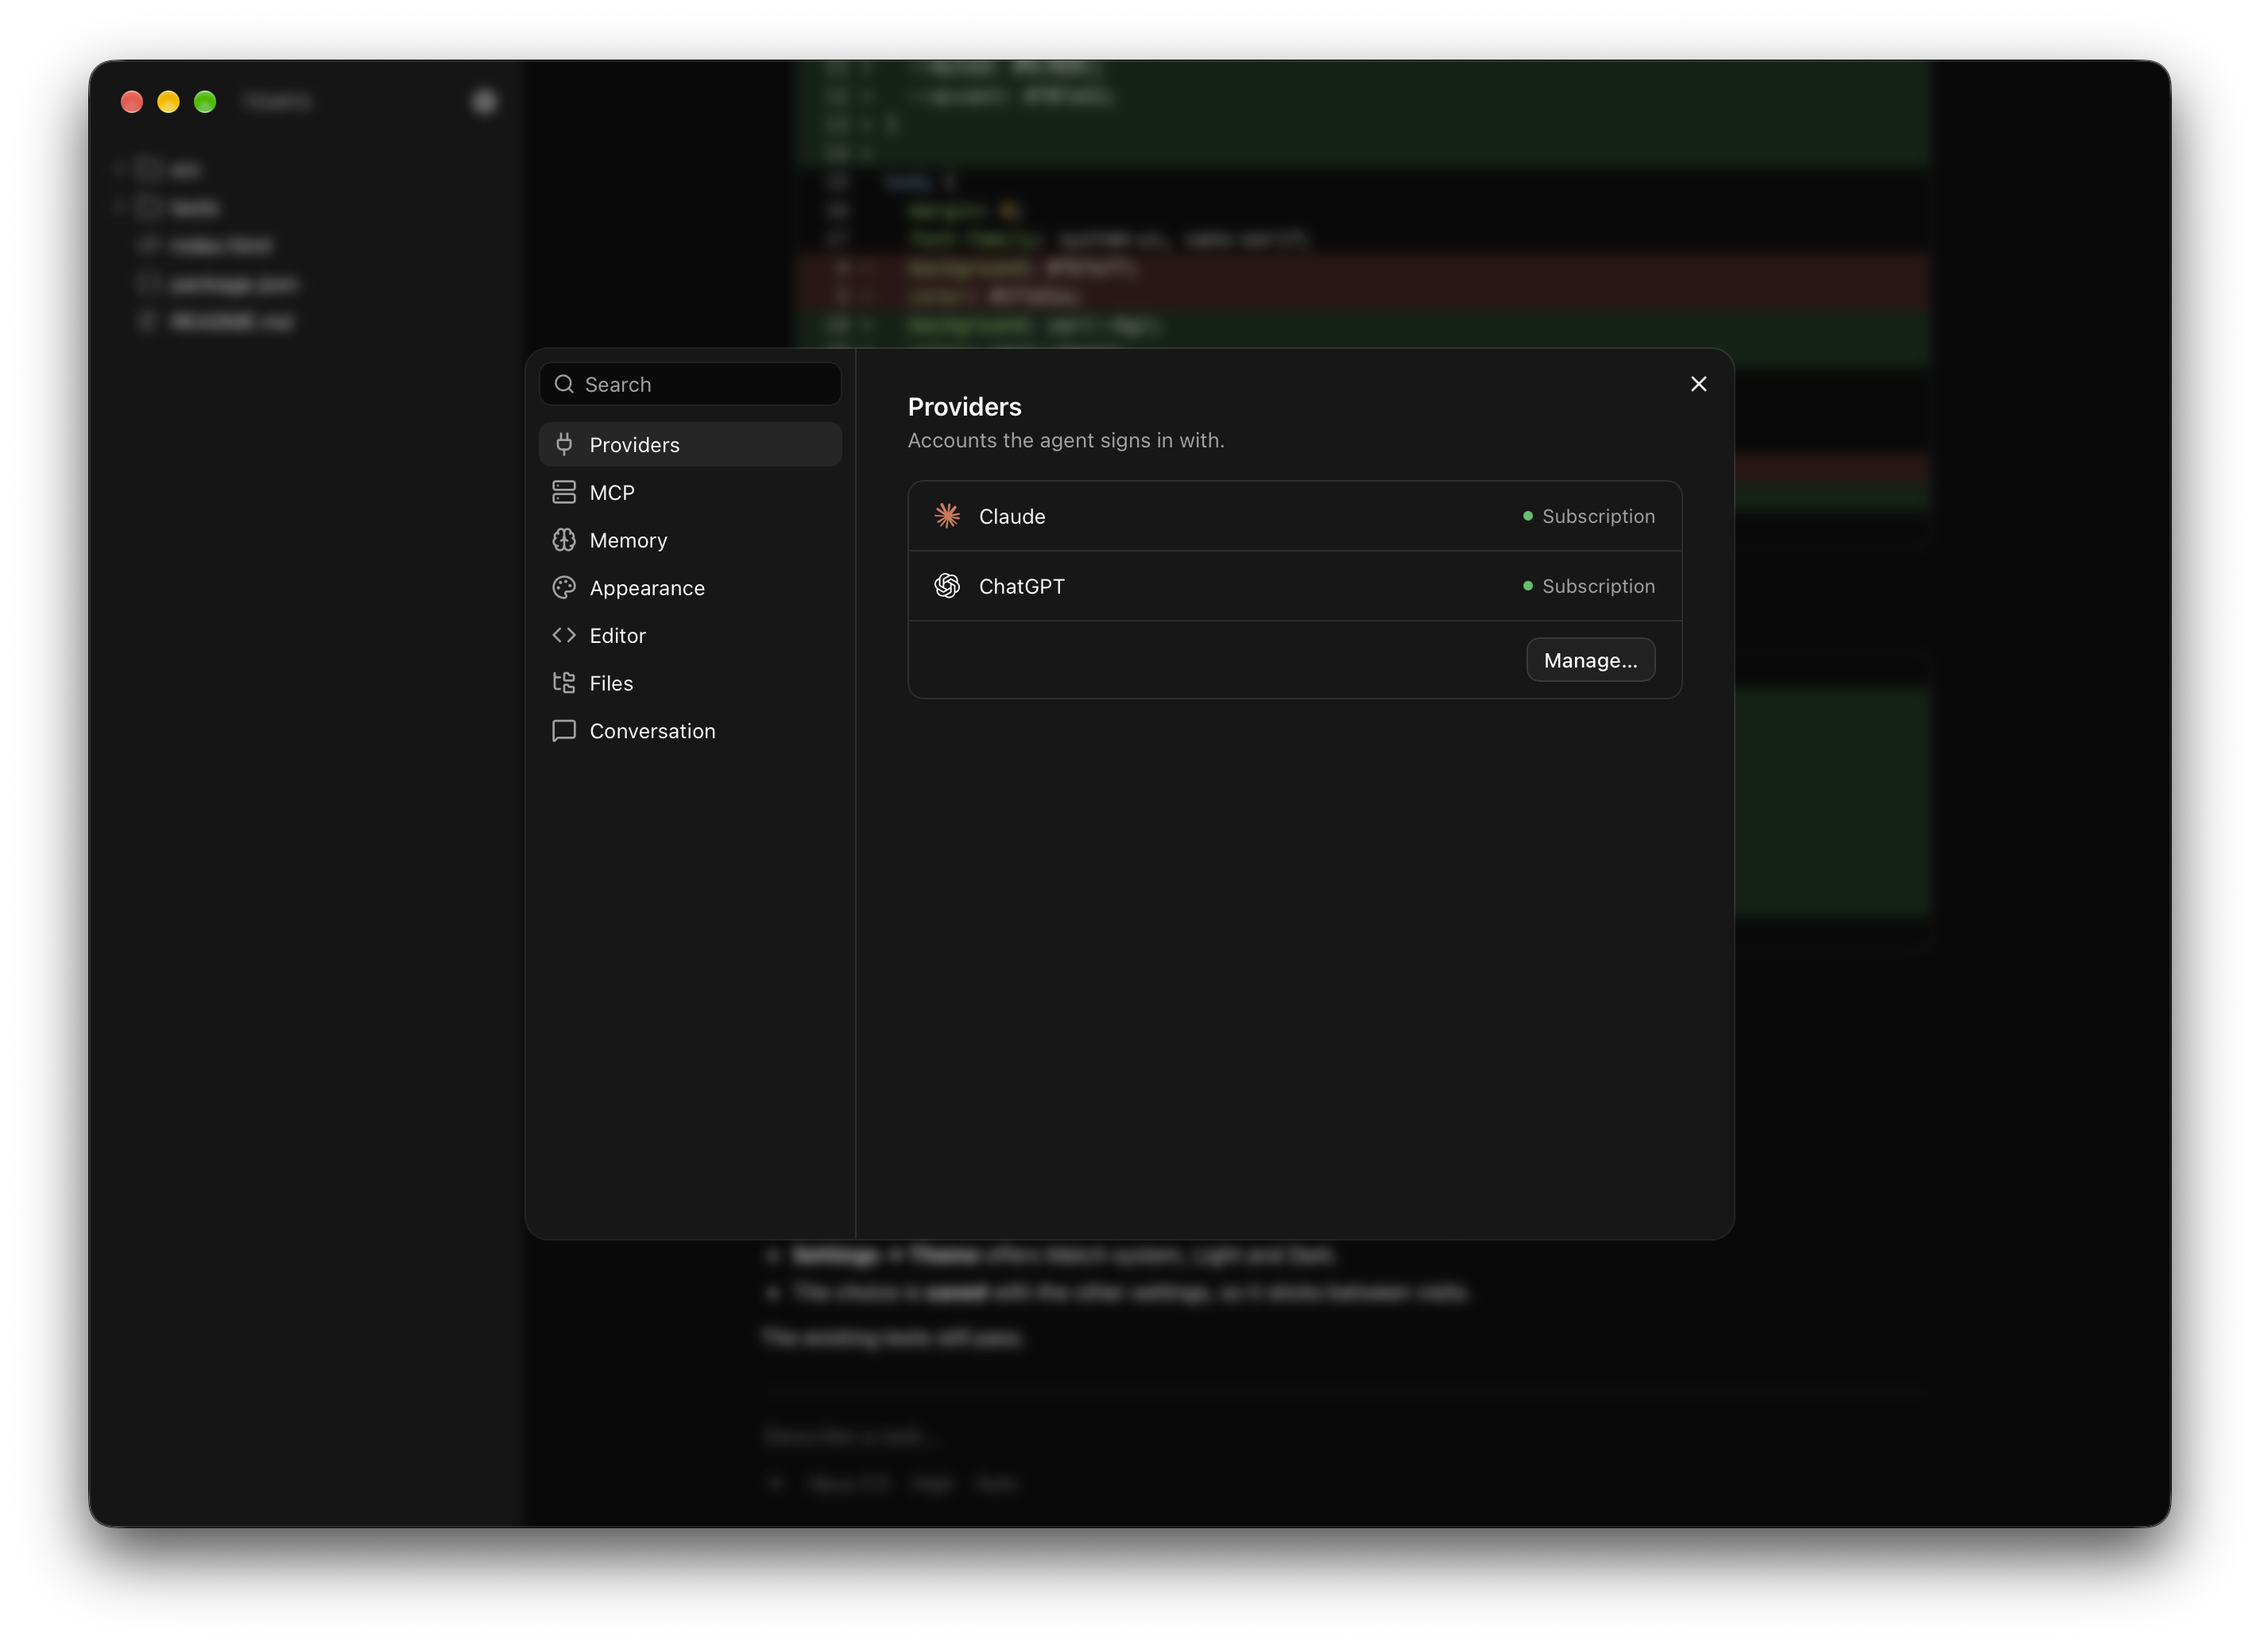
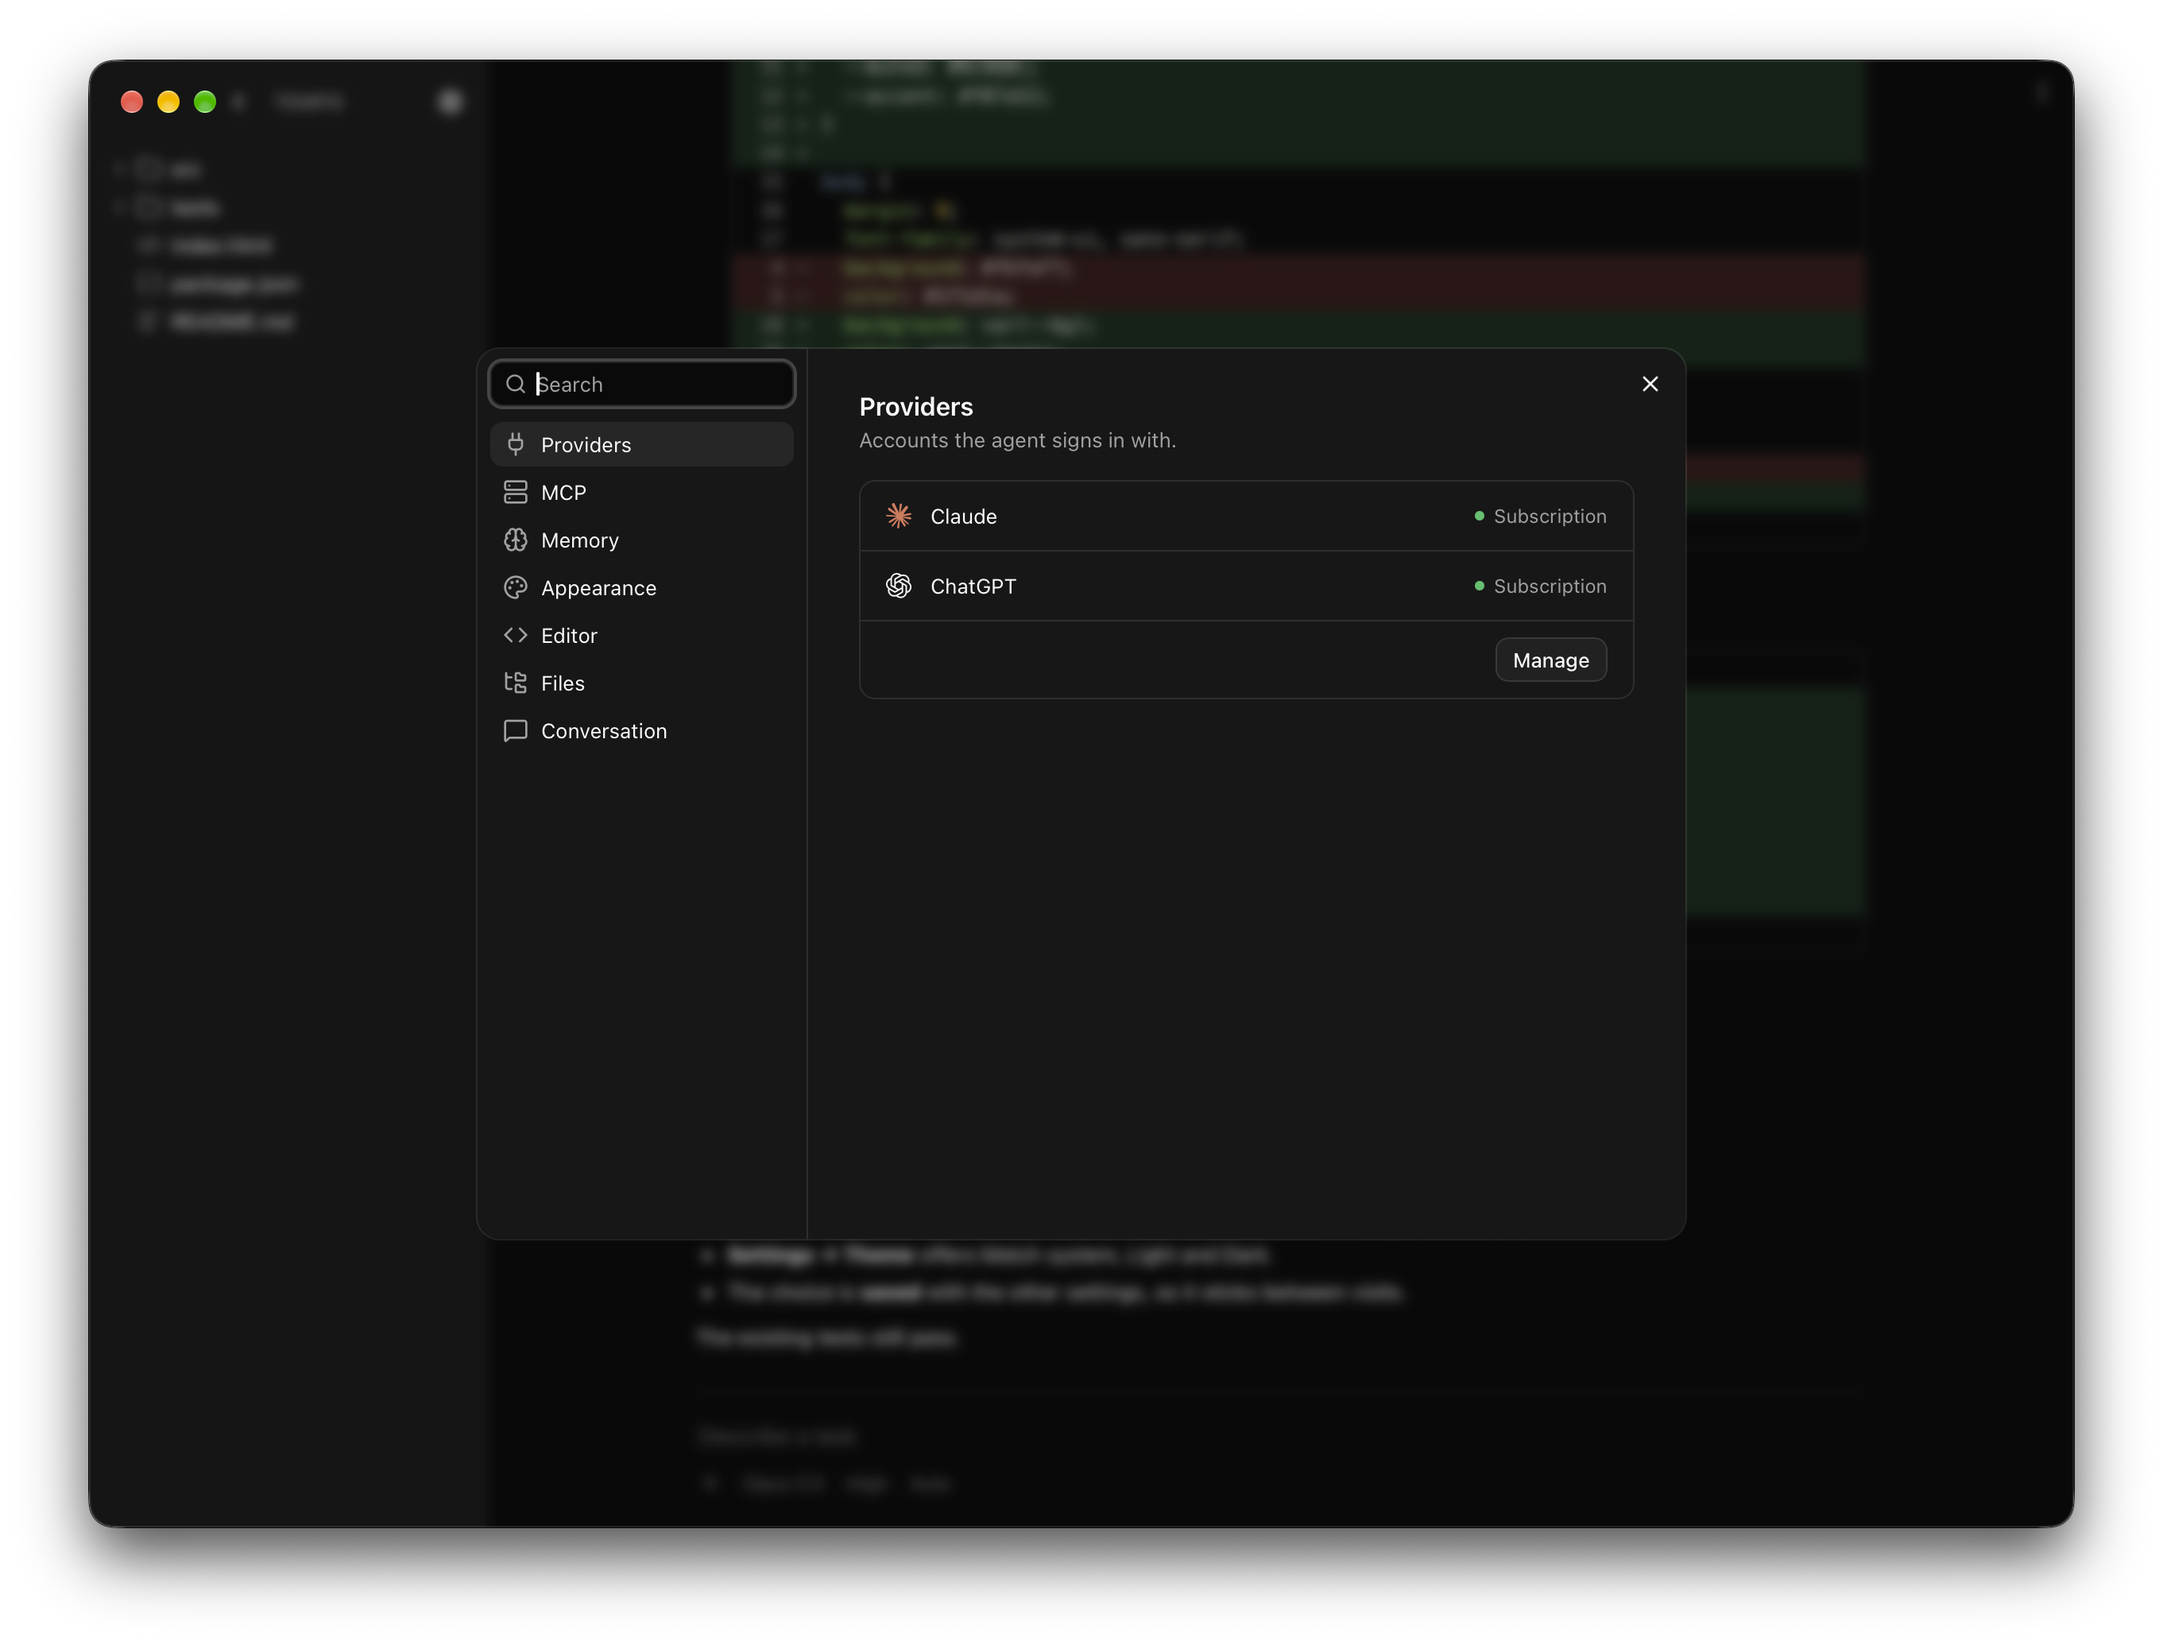
docs(readme): focus on what sets Ignition apart, with new screenshots including the agent's questions

diff --git a/README.md b/README.md
@@ -1,25 +1,40 @@
 # ignition
 
-A native macOS app for working with AI coding agents.
+A native macOS app for working with AI coding agents, with a small, quiet
+interface that keeps you in charge.
 
 <p align="center">
   <img src="docs/conversation.png" alt="Ignition showing an agent adding dark mode to a project: file edits as diffs, a test run, and a summary" width="900">
 </p>
 
-Open a folder, describe a task, and watch the agent work: every file it reads,
-every change it makes and every command it runs shows up in the conversation
-as it happens.
+## You make the calls
 
-- **Your subscriptions.** Sign in with Claude or ChatGPT, or use an API key.
-- **You decide what runs.** In Auto, commands run in a sandbox that keeps them
-  inside the project, and anything risky waits for your OK. In Manual, you
-  approve every step.
-- **Your tools.** Add MCP servers in a click, or import the ones you already
-  use in Claude Code, Cursor, Codex or Claude Desktop.
-- **Memory.** Works with [cmem](https://cmem.ai), so the agent remembers what
-  it learned about a project, across sessions and other agents.
-- **Feels at home on a Mac.** Your editor's color theme, a file tree and viewer,
-  multiple windows.
+<p align="center">
+  <img src="docs/questions.png" alt="The agent asking how people should sign in, with three options and their trade-offs, one question of three" width="900">
+</p>
+
+The agent doesn't guess. When a task leaves something open, it stops and asks,
+with a few options and what each one costs, and marks the one it would pick.
+Pick one or several, write your own answer, add a note under your pick, or
+leave it to the agent. Turn off **Ask before deciding** in Settings and it
+works on its own instead.
+
+## Features
+
+- **Your subscriptions.** Claude runs through your own Claude Code sign-in and
+  ChatGPT through your Codex CLI sign-in, so you use the plans you already pay
+  for. API keys work too.
+- **Sandboxed by default.** Commands can only write inside the project, can't
+  read your credentials and only reach package registries and git hosts.
+  Anything risky waits for your OK.
+- **Several projects at once.** Agents keep working in the background, and the
+  sidebar shows which ones are waiting for you.
+- **Bring your MCP servers.** Import the ones you already use in Claude Code,
+  Cursor, Codex or Claude Desktop in a click.
+- **Shared memory.** Works with [cmem](https://cmem.ai), so the agent remembers
+  what it learned about a project, including what other agents learned.
+- **Your editor's theme.** Any theme installed in VS Code, VSCodium, Cursor or
+  Windsurf.
 
 <p align="center">
   <img src="docs/settings.png" alt="Ignition settings, with Claude and ChatGPT connected" width="900">
@@ -49,11 +64,12 @@ if an update fails to start.
 
 Ignition is yours to reshape. Want a different look, a feature it's missing,
 or an agent that works your way? Just ask the agent and it makes the change.
-Your changes live in `~/.ignition/mods` and survive every update, so you keep
-getting new features without losing your own. And if a change ever breaks
+Your changes survive every update, so you keep getting new features without
+losing your own. And if a change ever breaks
 something, Ignition still opens and lets you know.
 
 ## Develop
 
-`npm install`, then `npm run tauri dev`. This never updates itself and ignores `~/.ignition/mods`. `npm run demo` opens a sample
-project with a finished conversation.
+`npm install`, then `npm run tauri dev`. This never updates itself and ignores
+`~/.ignition/mods`. `npm run demo` opens two sample projects: one with a
+finished conversation, and one where the agent is waiting on your answers.
